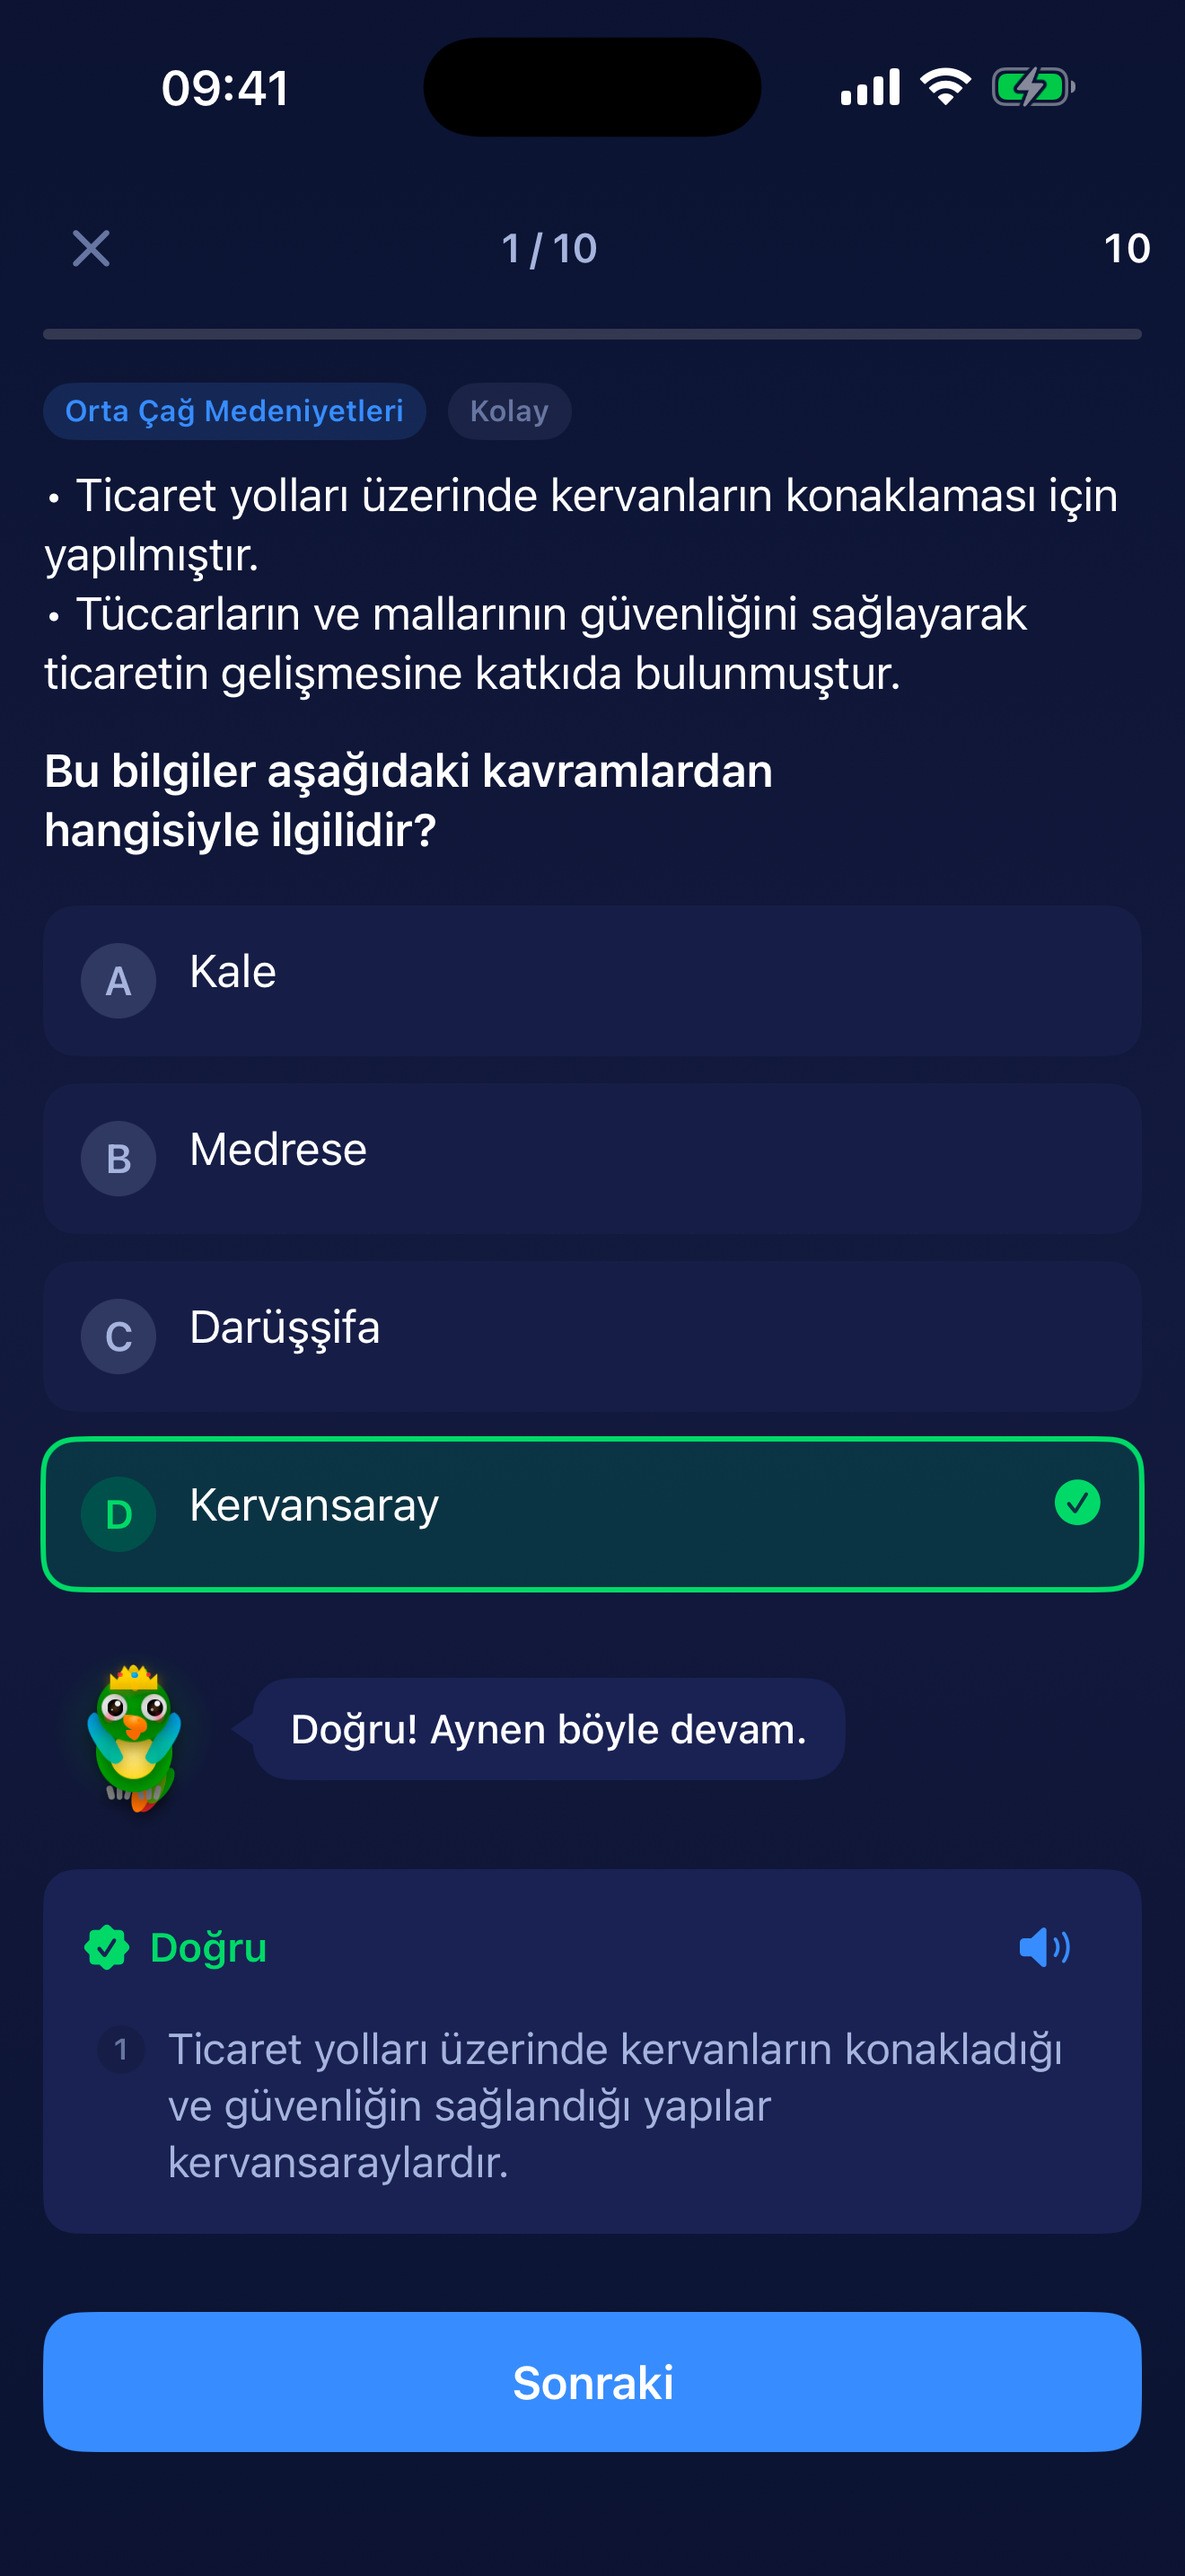
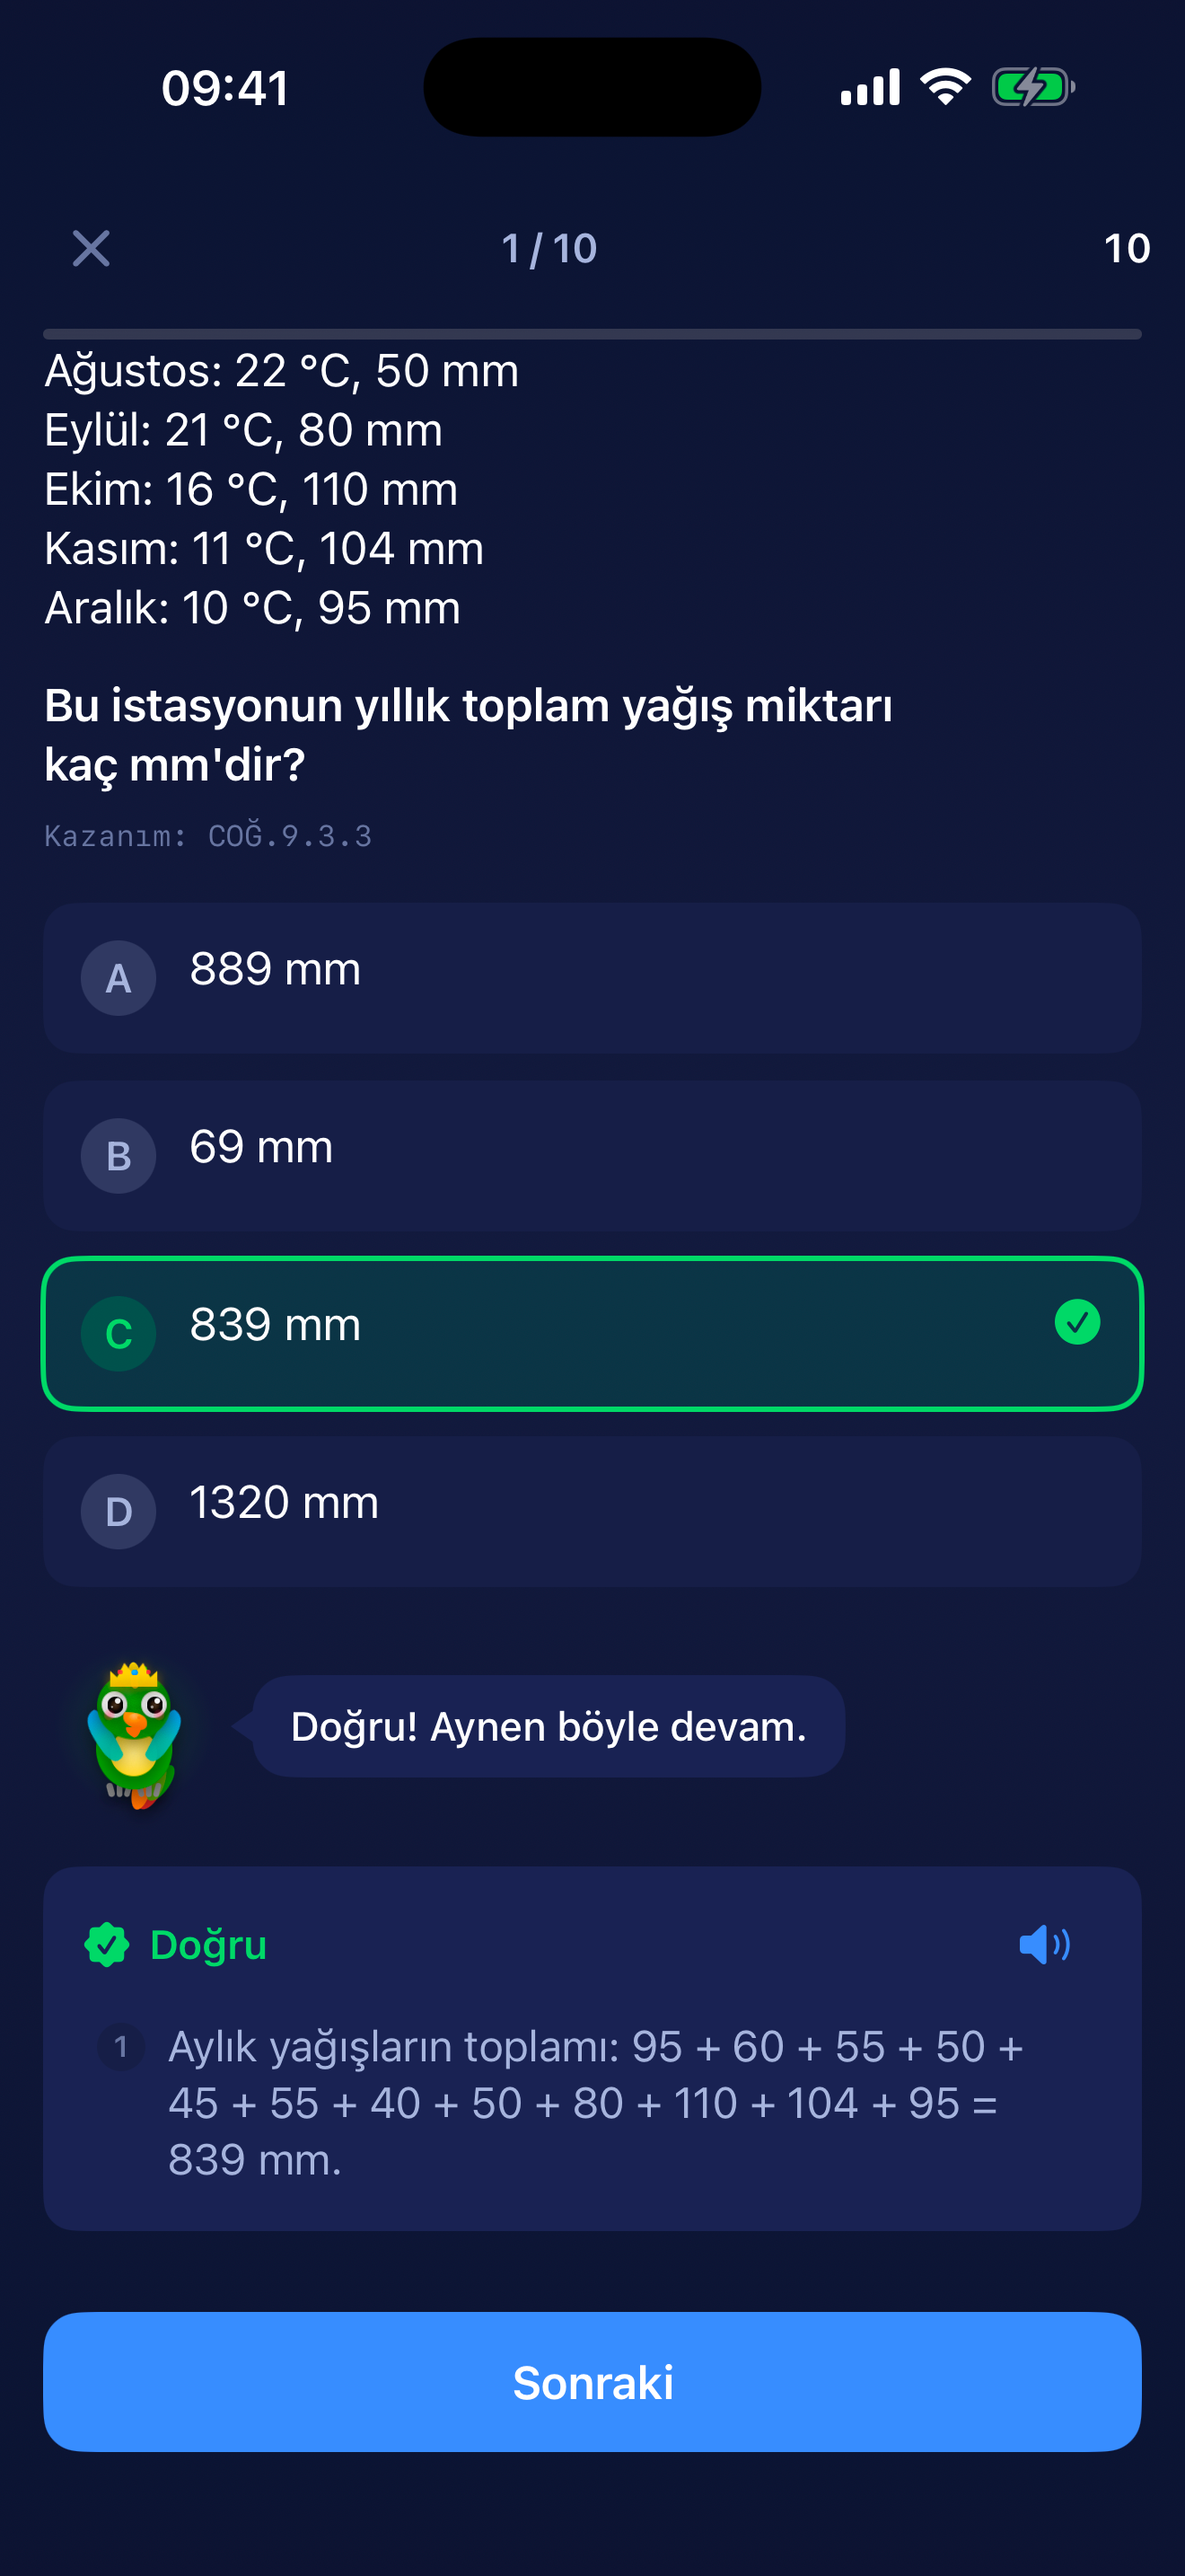
Languan Okul 9: çözüm ekranı görselleri kazanım koduyla yenilendi; destek metni

diff --git a/destek.html b/destek.html
@@ -43,7 +43,7 @@ Tam Sürüm yeniden açılır.</p>
 <h3>Hangi sınıf ve hangi müfredat?</h3>
 <p>Her sınıfın ayrı uygulaması var: <strong>Languan Okul</strong> 7. sınıf, <strong>Languan Okul
 8</strong> 8. sınıf, <strong>Languan Okul 9</strong>, <strong>10</strong>, <strong>11</strong> ve <strong>12</strong> lise sınıfları içindir. Lise uygulamalarında deneme neti YKS'deki gibi 4 yanlış 1 doğruyu götürür. Sorular Türkiye Yüzyılı Maarif Modeli'ndeki öğrenme çıktılarına
-(kazanımlara) bağlıdır; kazanım kodları konu listesinde ve kazanım patikasında yazar.</p>
+(kazanımlara) bağlıdır; kazanım kodları konu listesinde, kazanım patikasında ve uygulamaların güncel sürümlerinde her sorunun altında yazar.</p>
 
 <h3>Kaç soru var?</h3>
 <p><strong>Languan Okul (7. sınıf):</strong> 2.742 soru — Matematik 1.800, Türkçe 276,
